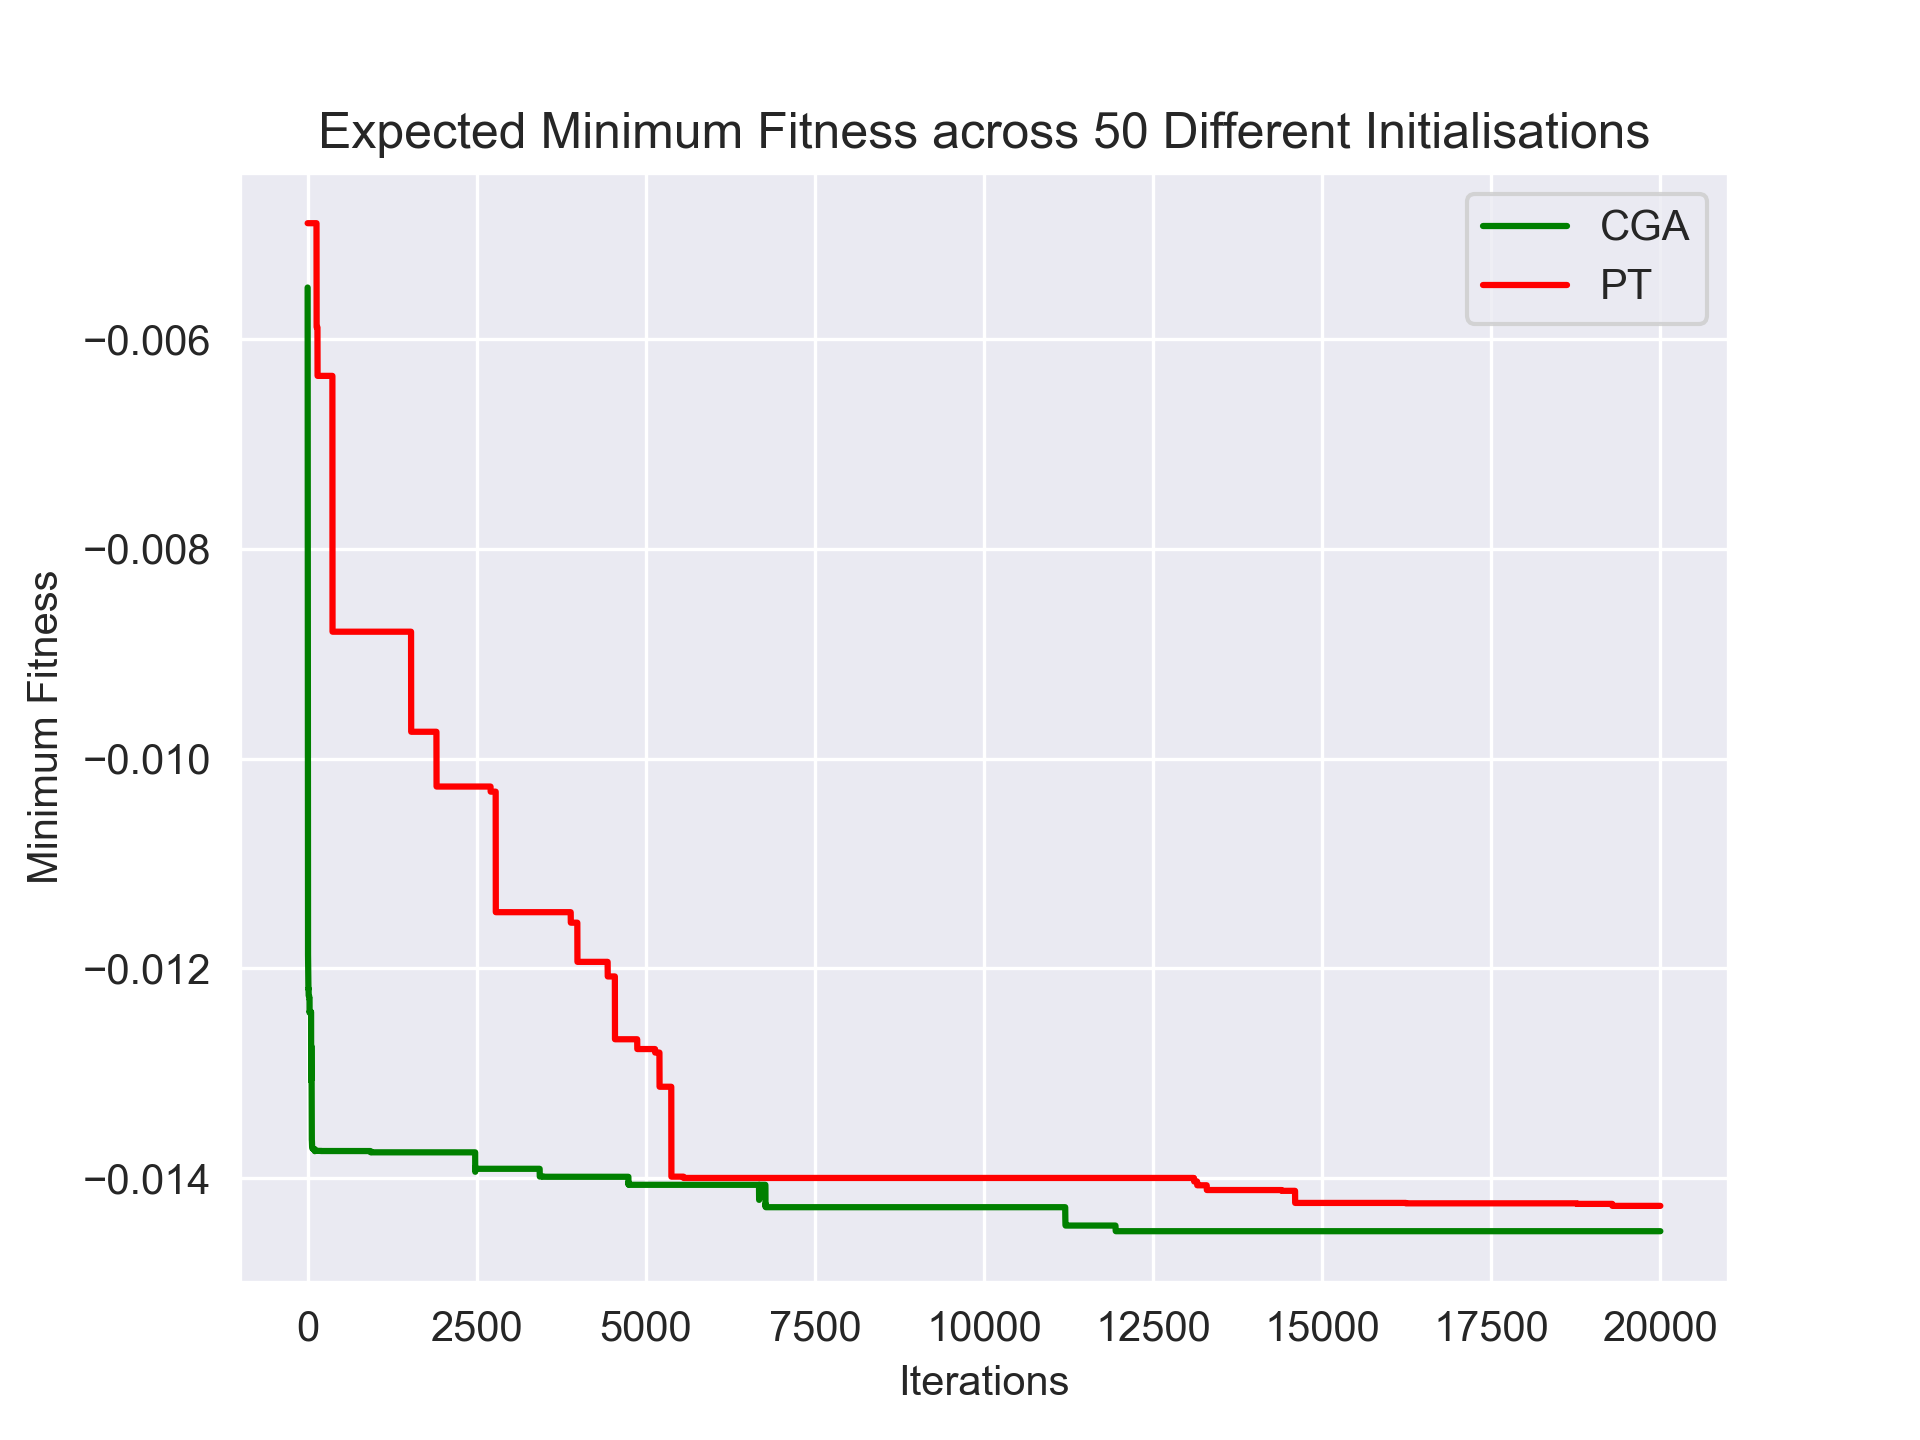
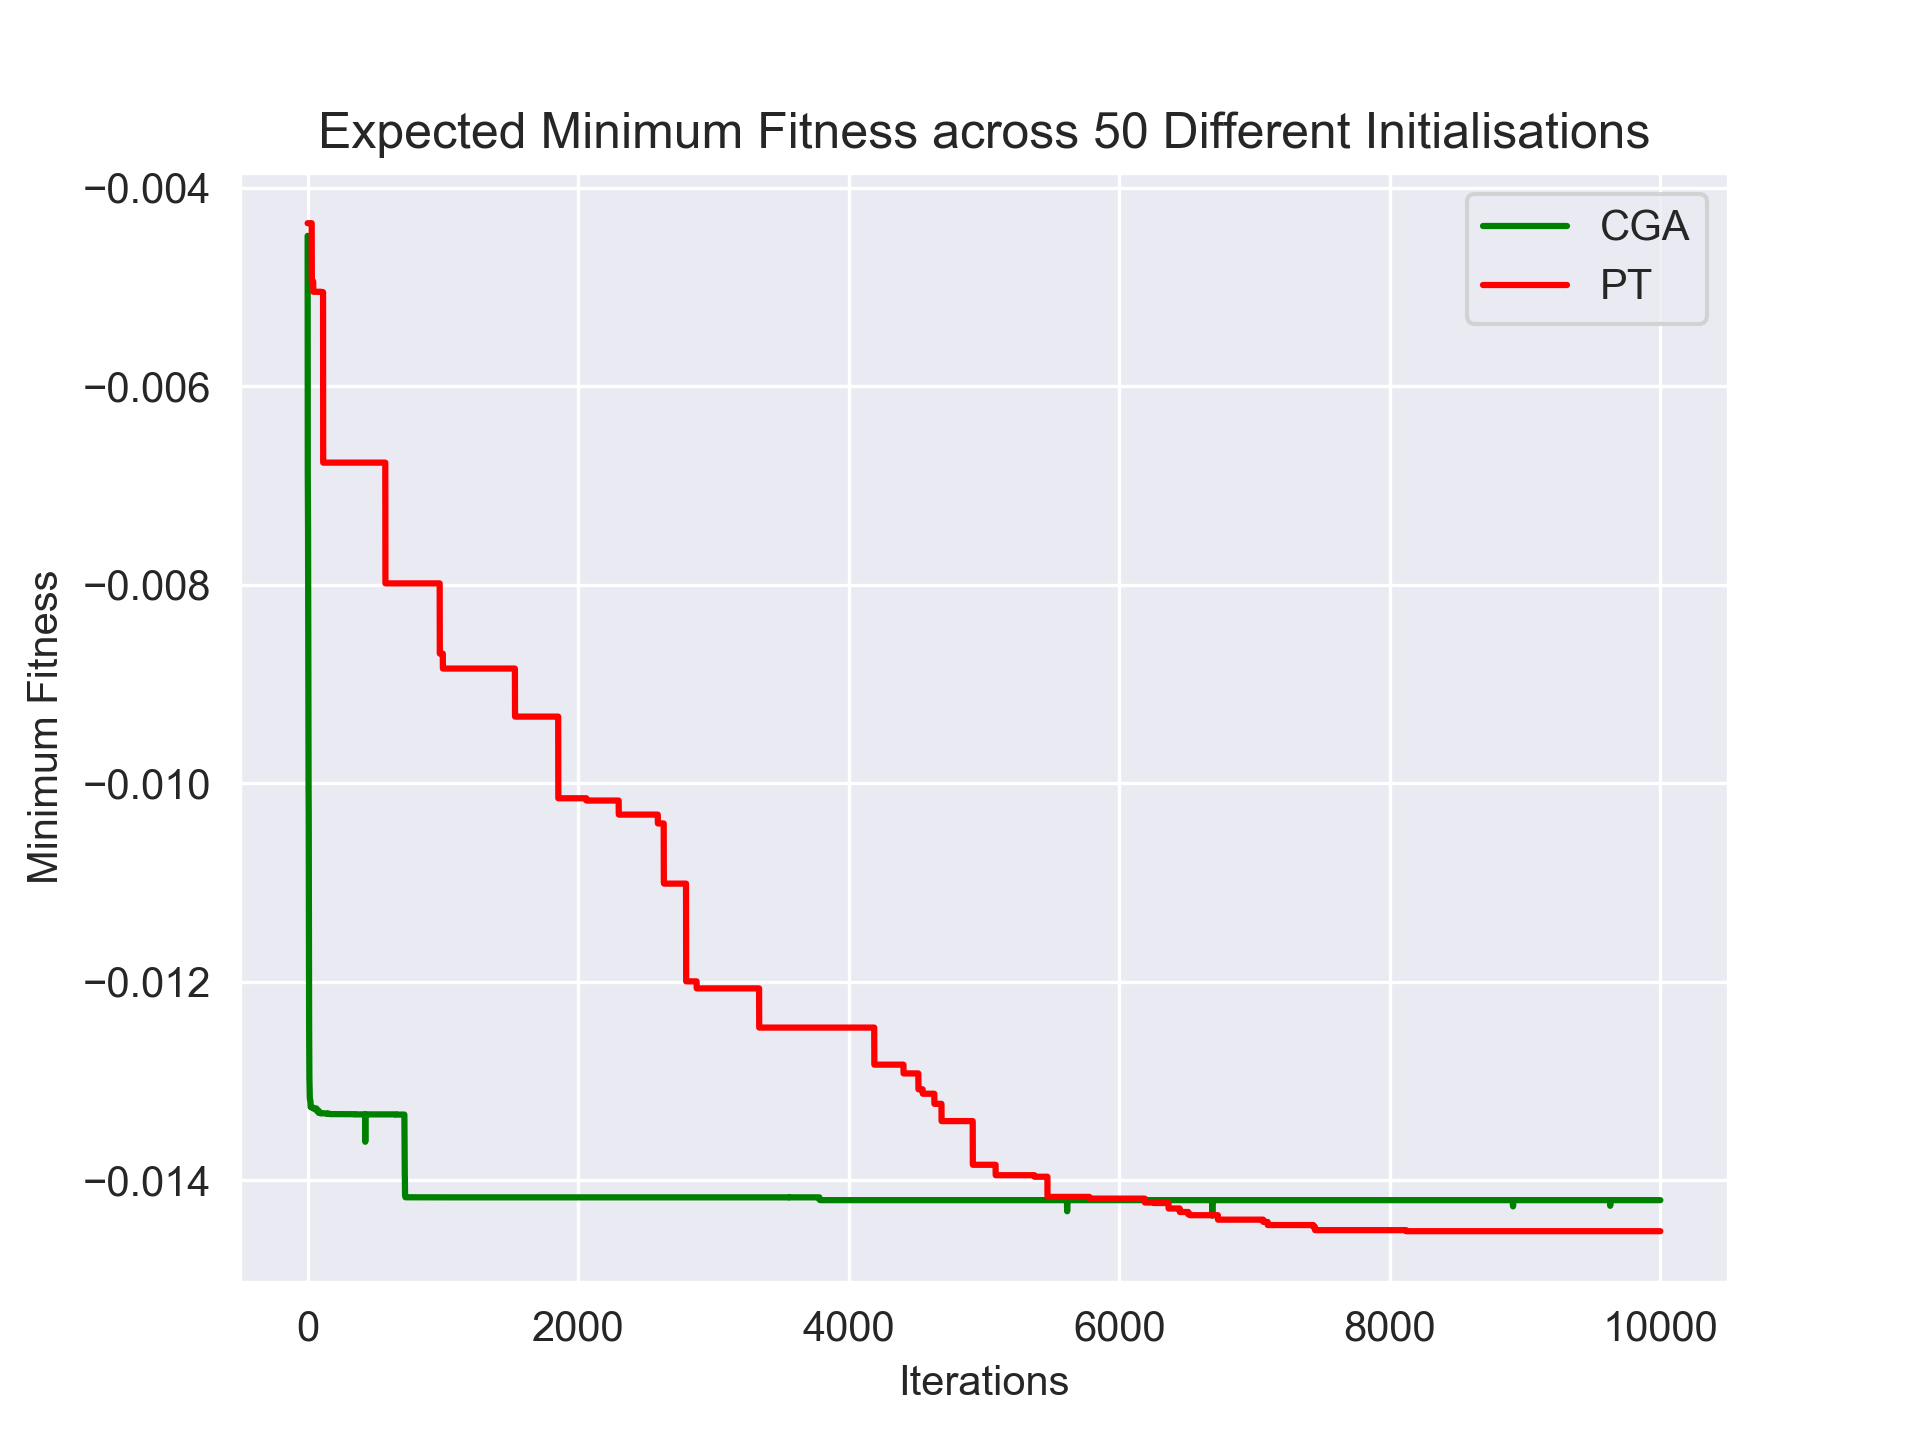
okay, ready to leave to run overnight

diff --git a/FinalComparison.py b/FinalComparison.py
@@ -14,7 +14,7 @@ import pandas as pd
 # No solution has a function value > 0.3, (away from global optimum)
 initial_pop_list, seeds = generate_initial(x_dim=8, pop_size=250)
 
-MAX_NUM_ITERS = 25000
+MAX_NUM_ITERS = 10000
 
 ### CGA Gather Results ###
 CGA_AvgFit_ALL = np.zeros((50, MAX_NUM_ITERS))
@@ -116,16 +116,17 @@ CGA_MinFit_mean = np.mean(CGA_MinFit_ALL, axis=0)
 PT_MinFit_mean = np.mean(PT_MinFit_ALL, axis=0)
 
 # Find the iteration at which CGA and PT converge (when the final min fitness is first reached by the min fitness)
-CGA_Avg_i = np.where(CGA_AvgFit_mean == np.min(CGA_AvgFit_mean))[0][0]
-PT_Avg_i = np.where(PT_AvgFit_mean == np.min(PT_AvgFit_mean))[0][0]
+eps = 0.0003
+CGA_Avg_i = np.where(CGA_AvgFit_mean < np.min(CGA_AvgFit_mean) + eps)[0][0]
+PT_Avg_i = np.where(PT_AvgFit_mean < np.min(PT_AvgFit_mean) + eps)[0][0]
 
 # Plot expected average fitness values for CGA and PT
 plt.figure()
 sns.set_style('darkgrid')
 plt.plot(CGA_AvgFit_mean, label='CGA', color='green')
 plt.plot(PT_AvgFit_mean, label='PT', color='red')
-plt.axvline(CGA_Avg_i, color='green', linestyle='--', label=f'CGA Converges at {int(CGA_Avg_i)} Iterations')
-plt.axvline(PT_Avg_i, color='red', linestyle='--', label=f'PT Convergence at {int(PT_Avg_i)} Iterations')
+plt.axvline(CGA_Avg_i, color='green', linestyle='--', label=f'CGA Best Converges at {int(CGA_Avg_i)} Iterations')
+plt.axvline(PT_Avg_i, color='red', linestyle='--', label=f'PT Best Convergence at {int(PT_Avg_i)} Iterations')
 plt.xlabel('Iterations')
 plt.ylabel('Average Fitness')
 plt.title('Expected Average Fitness across 50 Different Initialisations')
@@ -160,7 +161,7 @@ PT_final_time_std = np.std(PT_times_ALL)
 
 data = {'CGA': [CGA_final_avg, CGA_final_std, CGA_final_min, CGA_final_min_std, CGA_final_time, CGA_final_time_std, CGA_Avg_i],
         'PT': [PT_final_avg, PT_final_std, PT_final_min, PT_final_min_std, PT_final_time, PT_final_time_std, PT_Avg_i]}
-df = pd.DataFrame(data, index=['Average Fitness', 'Average Fitness Std', 'Minimum Fitness', 'Minimum Fitness Std', 'Total Time Taken', 'Time Taken Std', 'Iterations to Convergence'])
+df = pd.DataFrame(data, index=['Final Avg. Fitness', 'Final Avg. Fitness Std', 'Final Min. Fitness', 'Final Min. Fitness Std', 'Total Time Taken', 'Time Taken Std', 'Mean Iters to Convergence'])
 df.to_csv('figures/Final Comparison/CGA vs PT Final Results.csv')
 
 print(seeds) # These are the random seeds used to generate the initial populations
